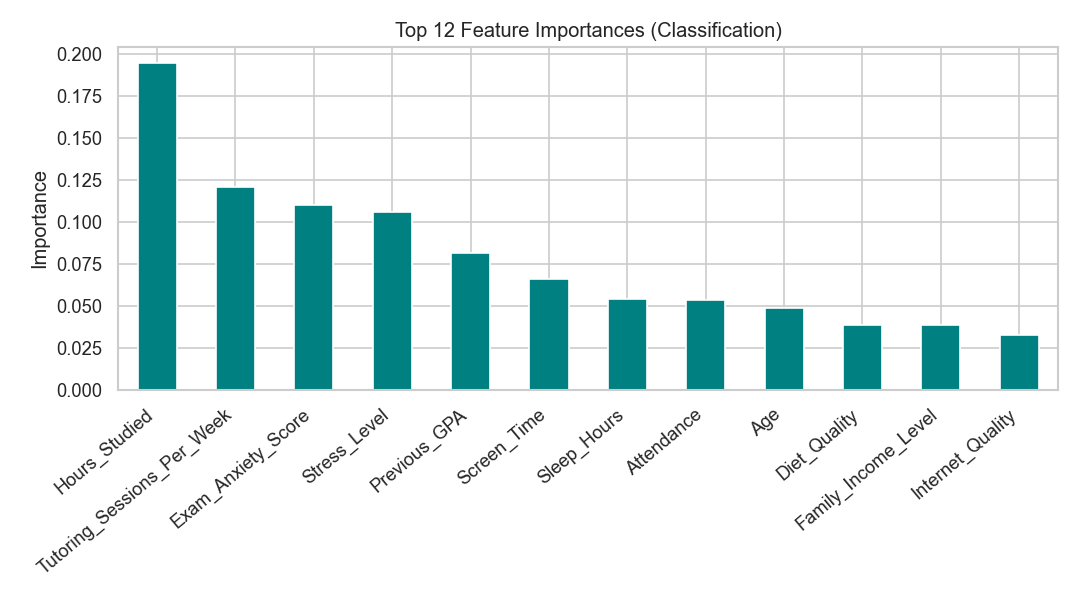
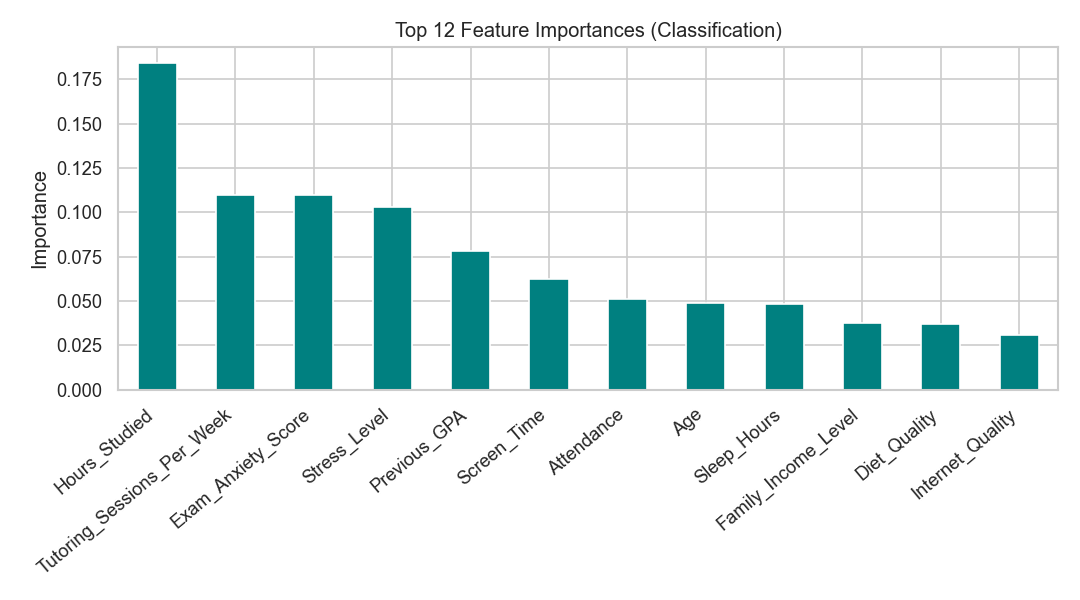
Add requirements.txt for project dependencies
- Included essential libraries: gradio, pandas, numpy, scikit-learn, imbalanced-learn, and joblib.

diff --git a/app.py b/app.py
@@ -1,29 +1,125 @@
 
-from flask import Flask, request, jsonify
-import joblib, pandas as pd
-
-app = Flask(__name__)
+import gradio as gr
+import joblib
+import pandas as pd
 
 clf_model = joblib.load("model_classification.pkl")
-clf_prep  = joblib.load("preprocessor_classification.pkl")
+clf_prep = joblib.load("preprocessor_classification.pkl")
 
[email redacted]("/predict", methods=["POST"])
-def predict():
-    data = request.get_json()
-    df = pd.DataFrame([data])
 
-    # Binary encode
-    df["Part_Time_Job"]   = 1 if data["Part_Time_Job"]   == "Yes" else 0
-    df["Extracurricular"] = 1 if data["Extracurricular"]  == "Yes" else 0
+def predict_grade(
+    age,
+    gender,
+    hours_studied,
+    attendance,
+    sleep_hours,
+    stress_level,
+    screen_time,
+    previous_gpa,
+    part_time_job,
+    study_method,
+    diet_quality,
+    internet_quality,
+    extracurricular,
+    tutoring_sessions_per_week,
+    family_income_level,
+    exam_anxiety_score,
+):
+    df = pd.DataFrame(
+        [
+            {
+                "Age": age,
+                "Gender": gender,
+                "Hours_Studied": hours_studied,
+                "Attendance": attendance,
+                "Sleep_Hours": sleep_hours,
+                "Stress_Level": stress_level,
+                "Screen_Time": screen_time,
+                "Previous_GPA": previous_gpa,
+                "Part_Time_Job": 1 if part_time_job == "Yes" else 0,
+                "Study_Method": study_method,
+                "Diet_Quality": diet_quality,
+                "Internet_Quality": internet_quality,
+                "Extracurricular": 1 if extracurricular == "Yes" else 0,
+                "Tutoring_Sessions_Per_Week": tutoring_sessions_per_week,
+                "Family_Income_Level": family_income_level,
+                "Exam_Anxiety_Score": exam_anxiety_score,
+            }
+        ]
+    )
 
-    grade = clf_model.predict(clf_prep.transform(df))[0]
-    probs = clf_model.predict_proba(clf_prep.transform(df))[0]
+    transformed = clf_prep.transform(df)
+    grade = clf_model.predict(transformed)[0]
+    probs = clf_model.predict_proba(transformed)[0]
     classes = clf_model.classes_
+    prob_dict = {c: float(p) for c, p in zip(classes, probs)}
+    return grade, prob_dict
 
-    return jsonify({
-        "predicted_grade": grade,
-        "grade_probabilities": {c: float(p) for c, p in zip(classes, probs)}
-    })
+
+with gr.Blocks(title="Student Performance Grade Predictor") as demo:
+    gr.Markdown(
+        """
+        # Student Performance Grade Predictor
+        Enter student details and get the predicted grade along with class probabilities.
+        """
+    )
+
+    with gr.Row():
+        age = gr.Number(label="Age", value=20)
+        gender = gr.Dropdown(["Male", "Female"], label="Gender")
+        study_method = gr.Dropdown(["Online", "Offline", "Hybrid"], label="Study Method")
+
+    with gr.Row():
+        hours_studied = gr.Number(label="Hours Studied", value=6.5)
+        attendance = gr.Number(label="Attendance (%)", value=85)
+        sleep_hours = gr.Number(label="Sleep Hours", value=7)
+
+    with gr.Row():
+        stress_level = gr.Number(label="Stress Level", value=3.5)
+        screen_time = gr.Number(label="Screen Time (hrs)", value=2.5)
+        previous_gpa = gr.Number(label="Previous GPA", value=3.2)
+
+    with gr.Row():
+        part_time_job = gr.Dropdown(["No", "Yes"], label="Part-Time Job", value="No")
+        extracurricular = gr.Dropdown(["No", "Yes"], label="Extracurricular", value="Yes")
+        tutoring_sessions_per_week = gr.Number(label="Tutoring Sessions/Week", value=2)
+
+    with gr.Row():
+        diet_quality = gr.Dropdown(["Poor", "Average", "Good"], label="Diet Quality")
+        internet_quality = gr.Dropdown(
+            ["Poor", "Average", "Good", "Excellent"], label="Internet Quality"
+        )
+        family_income_level = gr.Dropdown(["Low", "Middle", "High"], label="Family Income")
+
+    exam_anxiety_score = gr.Number(label="Exam Anxiety Score", value=4.0)
+
+    predict_btn = gr.Button("Predict Grade")
+    predicted_grade = gr.Textbox(label="Predicted Grade")
+    grade_probabilities = gr.JSON(label="Grade Probabilities")
+
+    predict_btn.click(
+        fn=predict_grade,
+        inputs=[
+            age,
+            gender,
+            hours_studied,
+            attendance,
+            sleep_hours,
+            stress_level,
+            screen_time,
+            previous_gpa,
+            part_time_job,
+            study_method,
+            diet_quality,
+            internet_quality,
+            extracurricular,
+            tutoring_sessions_per_week,
+            family_income_level,
+            exam_anxiety_score,
+        ],
+        outputs=[predicted_grade, grade_probabilities],
+    )
+
 
 if __name__ == "__main__":
-    app.run(debug=True)
+    demo.launch()

diff --git a/app_flask.py b/app_flask.py
@@ -1,0 +1,29 @@
+from flask import Flask, request, jsonify
+import joblib, pandas as pd
+
+app = Flask(__name__)
+
+clf_model = joblib.load("model_classification.pkl")
+clf_prep  = joblib.load("preprocessor_classification.pkl")
+
[email redacted]("/predict", methods=["POST"])
+def predict():
+    data = request.get_json()
+    df = pd.DataFrame([data])
+
+    # Binary encode
+    df["Part_Time_Job"]   = 1 if data["Part_Time_Job"]   == "Yes" else 0
+    df["Extracurricular"] = 1 if data["Extracurricular"]  == "Yes" else 0
+
+    transformed = clf_prep.transform(df)
+    grade = clf_model.predict(transformed)[0]
+    probs = clf_model.predict_proba(transformed)[0]
+    classes = clf_model.classes_
+
+    return jsonify({
+        "predicted_grade": grade,
+        "grade_probabilities": {c: float(p) for c, p in zip(classes, probs)}
+    })
+
+if __name__ == "__main__":
+    app.run(debug=True)